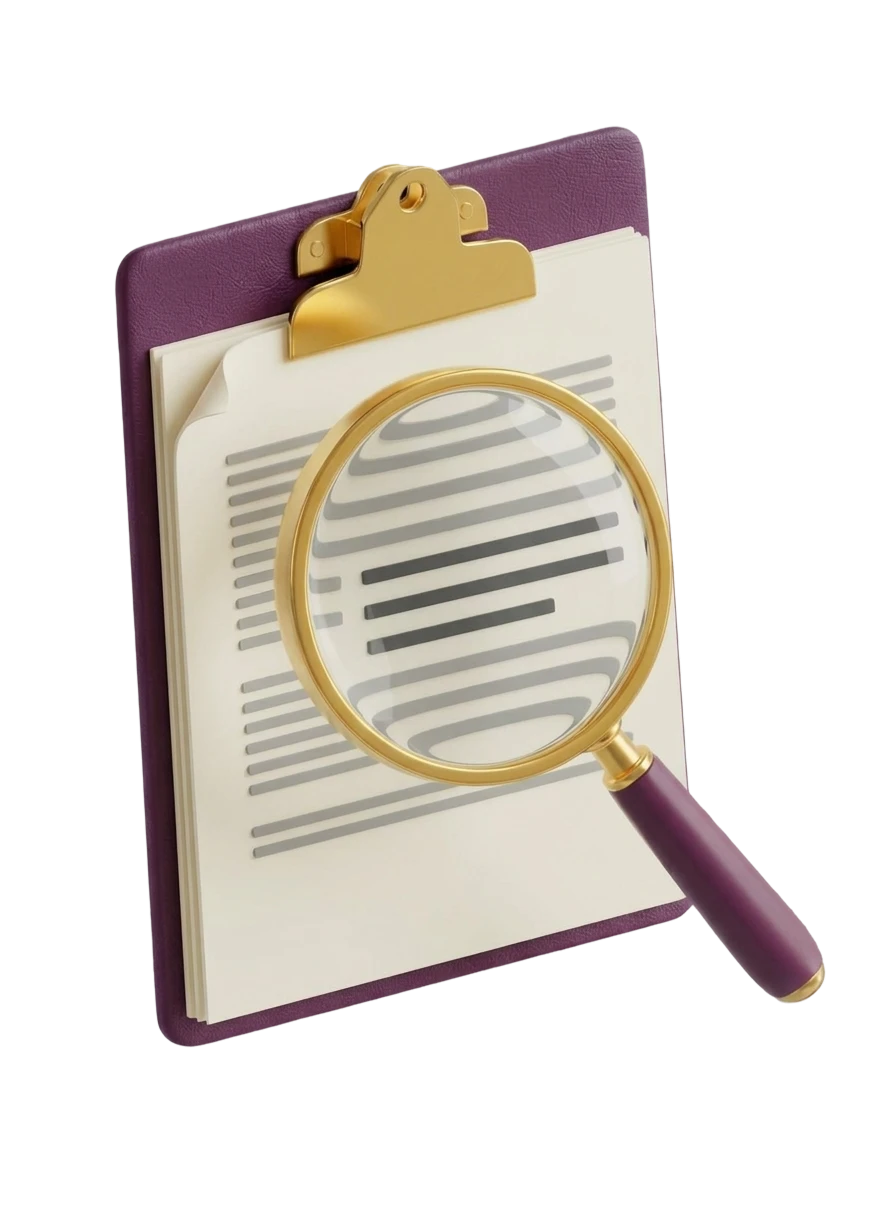
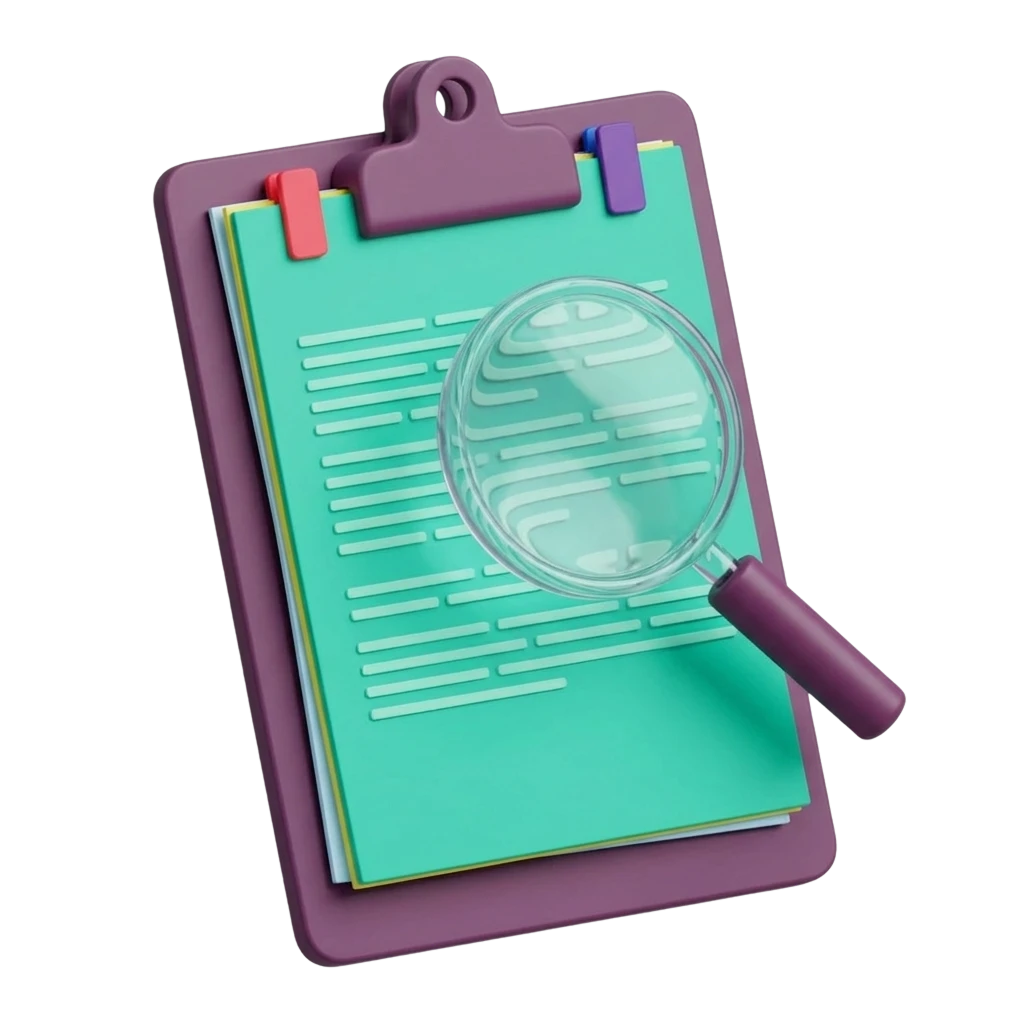
Update Find gaps art and add Ask anything illustration (20% larger) to Get Started

diff --git a/ovie_get_started.html b/ovie_get_started.html
@@ -112,8 +112,8 @@
       height: auto;
     }
 
-    /* The find-gaps art is portrait (879x1216), so size it by height to match the square
-       illustrations' rendered height (same clamp as .illustration's width, via cqw of the .hero-stage container). */
+    /* The find-gaps art is sized by height off the same clamp as .illustration's width
+       (via cqw of the .hero-stage container), then scaled up below. */
     .illustration[data-illustration="gaps"] {
       --base: clamp(176px, 56cqw, 236px);
       width: auto;
@@ -121,6 +121,14 @@
          keeps the slide's layout footprint unchanged so the copy and progress bar don't shift. */
       height: calc(var(--base) * 1.2);
       margin-block: calc(var(--base) * -0.1);
+    }
+
+    /* The ask-anything art is landscape (1091x960): 20% wider than the standard illustration, with a
+       negative margin (half the extra height, per side) so the slide's layout footprint is unchanged. */
+    .illustration[data-illustration="ask"] {
+      --base: clamp(176px, 56cqw, 236px);
+      width: calc(var(--base) * 1.2);
+      margin-block: calc(var(--base) * -0.088);
     }
 
     /* Headline + subtext travel together so they sit close (8px) while the hero keeps its
@@ -492,15 +500,14 @@
           </div>
         </div>
         <div class="slide" data-step="1" aria-hidden="true">
-          <img class="illustration" src="assets/illustration-find-gaps.webp" data-illustration="gaps" alt="A magnifying glass over a clipboard of policy pages" width="879" height="1216" decoding="async" loading="lazy">
+          <img class="illustration" src="assets/illustration-find-gaps.webp" data-illustration="gaps" alt="A magnifying glass over a clipboard of policy pages" width="1027" height="1024" decoding="async" loading="lazy">
           <div class="hero-copy">
             <h2 class="headline">Find gaps early</h2>
             <p class="subtext">Ovie flags what's missing before you claim.</p>
           </div>
         </div>
         <div class="slide" data-step="2" aria-hidden="true">
-          <!-- TODO: swap src for the step-3 illustration when supplied (reusing step 1's art as a placeholder for now). -->
-          <img class="illustration" src="assets/ovie-get-started-illustration.webp" data-illustration="ask" alt="Asking Ovie a question about your policy" width="1027" height="1024" decoding="async" loading="lazy">
+          <img class="illustration" src="assets/illustration-ask-anything.webp" data-illustration="ask" alt="A phone showing a policy document with chat bubbles for asking Ovie a question" width="1091" height="960" decoding="async" loading="lazy">
           <div class="hero-copy">
             <h2 class="headline">Ask your policy anything</h2>
             <p class="subtext">Your questions, answered from your documents.</p>
